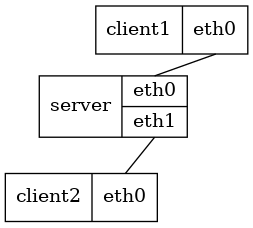
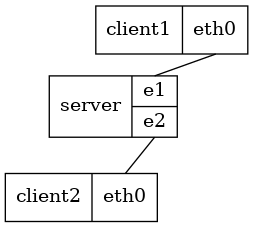
Update with tutorial with non-Classic example and custom MACs
To honor previous employers and classic hardware we use OUIs from known
manufacturers in our example.

Changed region(s): [[0.1383, 0.307, 0.747, 0.614]]

diff --git a/README.md b/README.md
@@ -46,41 +46,58 @@ Tutorial
 This tutorial makes use of one of the bundled [Infix][] NOS templates.
 We start by creating our tutorial directory where all files related to
 our network project will be stored.  Then we download a pre-built Infix
-Classic image into it:
+image into it:
 
 ```sh
 ~$ mkdir tutorial
 ~$ cd tutorial/
-~/tutorial$ wget -q https://github.com/kernelkit/infix/releases/download/latest/infix-x86_64-classic.tar.gz
-~/tutorial$ tar xf infix-x86_64-classic.tar.gz infix-x86_64-classic/infix-x86_64-classic.img
-~/tutorial$ mv infix-x86_64-classic/infix-x86_64-classic.img .
-~/tutorial$ rmdir infix-x86_64-classic/
-~/tutorial$ rm infix-x86_64-classic.tar.gz
+~/tutorial$ wget -q https://github.com/kernelkit/infix/releases/download/latest/infix-x86_64.tar.gz
+~/tutorial$ tar xf infix-x86_64.tar.gz infix-x86_64/infix-x86_64.img
+~/tutorial$ mv infix-x86_64/infix-x86_64.img .
+~/tutorial$ rm -rf infix-x86_64/ infix-x86_64.tar.gz
 ```
 
 Next, let's setup our topology, edit `~/tutorial/topology.dot.in`:
 
 ```.dot
 graph "tutorial" {
-        node [shape=record];
-        qn_template="infix-x86_64-classic";
-        qn_append="quiet";
+    node [shape=record];
+    qn_template="infix-x86_64";
+    qn_append="quiet";
+    qn_mem="512M";
+    qn_oui="00:a0:85";
 
-        server [label="server | { <eth0> eth0 | <eth1> eth1 }"];
-        client1 [label="client1 | { <eth0> eth0 }"];
-        client2 [label="client2 | { <eth0> eth0 }"];
+    server [label="server   | { <e1> e1 | <e2> e2 }", qn_basemac="00:07:7c:00:00:00"];
+    client1 [label="client1 | { <eth1> eth1 }"];
+    client2 [label="client2 | { <eth1> eth1 }"];
 
-        server:eth0 -- client1:eth0;
-        server:eth1 -- client2:eth0;
+    server:eth0 -- client1:eth0 [qn_tailmac="00:07:7c:12:34:56", qn_headmac="08:00:20:c0:ff:ee"];
+    server:eth1 -- client2:eth0;
 }
 ```
 
-Use your favorite graphviz(7) layout engine to visualize it.  Here
-we've used `neato -Tpng topology.dot.in -otopology.png`:
+The two clients in this example connect to the server, which has two
+interfaces named `e1` and `e2`.  We name all `<interfaces>` (called
+"ports" in graphviz) and put the same label on them.  The name is used
+in all qemu script generation and the label is "only" used when
+generating a graph.  Use your favorite graphviz(7) layout engine to
+visualize it.  Here we've used `neato -Tpng topology.dot.in
+-otopology.png`:
 
 ![Network topology](topology.png)
 
-Everything we need is in place - now we can generate the scripts:
+ - `qn-append` is what is appended to the kernel command line
+ - `qn_mem` overrides the template's default RAM size for all nodes
+ - `qn_oui` sets a default MAC OUI prefix for all nodes
+ - `qn_basemac` changes the base MAC used for all connections on one node
+ - `qn_tailmac` and `qn_headmac` overrides the MAC address for a specific interface on a link
+
+> **Note:** the names `headmac` and `tailmac` refer to the head and tail
+> end of the edge in the graph.  Even though we do not use directed
+> edges the left side is called the tail and the right is head.
+
+Everything we need is now in place - so we can generate the scripts and
+all support files:
 
 ```sh
 ~/tutorial$ qeneth generate
@@ -88,8 +105,9 @@ Info: Generating topology
 Info: Generating node YAML
 Info: Generating executables
 ~/tutorial$ ls
-client1       client2       infix-x86_64-classic.img  server.yaml   topology.dot.in
-client1.yaml  client2.yaml  server                    topology.dot
+client1         client2         infix-x86_64.img  server.yaml   topology.dot.in
+client1.mactab  client2.mactab  server            topology.dot
+client1.yaml    client2.yaml    server.mactab
 ```
 
 Finally, we can start our network:
